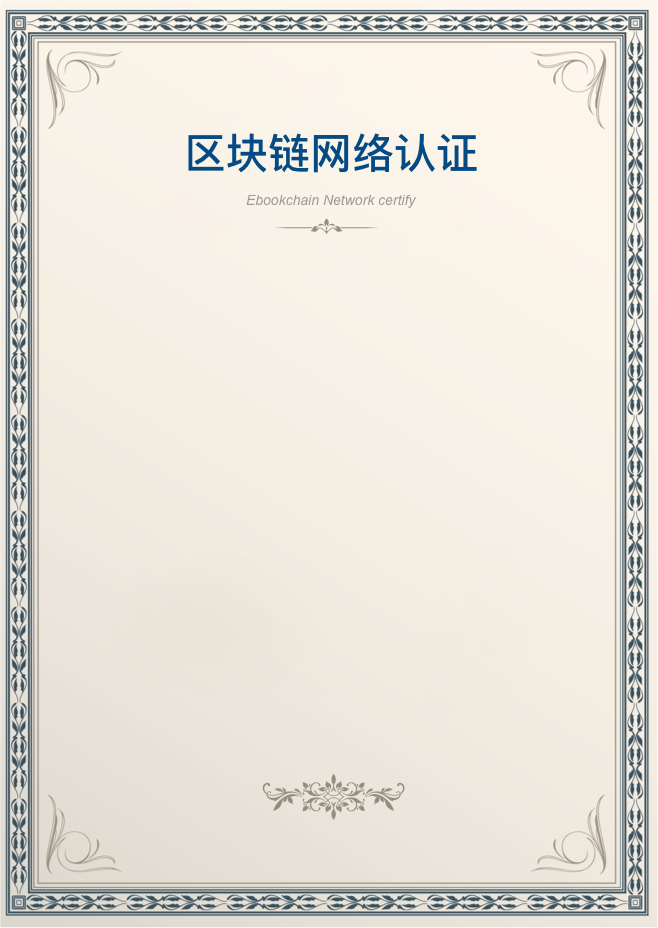
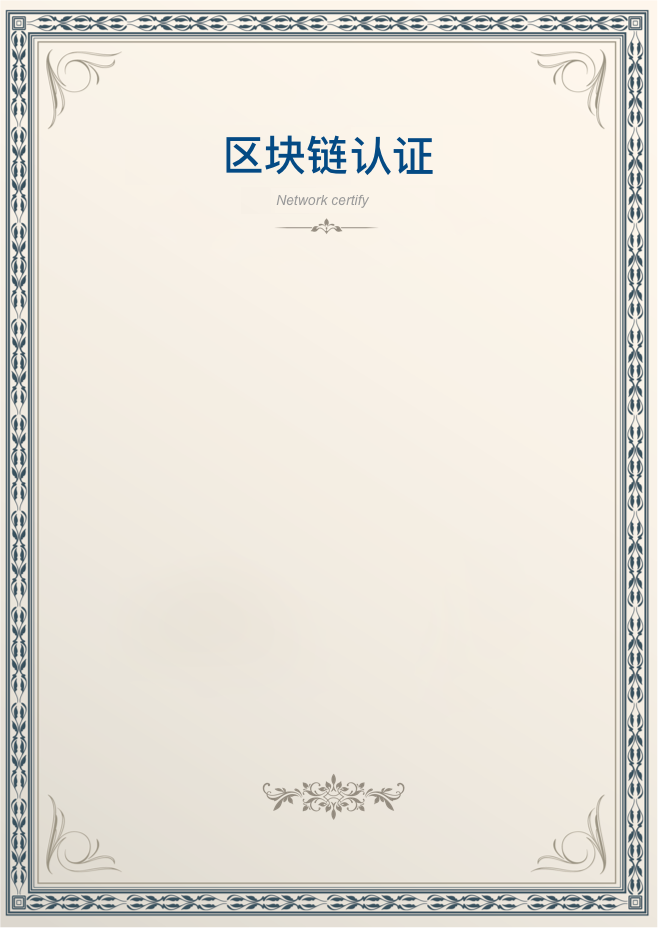
feat: 修改存证模块展示功能

Changed region(s): [[0.2736, 0.125, 0.7295, 0.2188]]

diff --git a/src/models/asset.js b/src/models/asset.js
@@ -13,7 +13,11 @@ const DefaultCert = {
     "tags": "test, article",
     "url": "dat://helloworld/index.html",
     "message": "TEST",
-    "extend": ""
+    "extend": "",
+    size: '141345',
+    "ipid": "IPID12404323413",
+    title: '委托检测报告存证',
+    author: 'LIMSChain',
 }
 const DefaultEvidence = {
     "evidenceList": [
@@ -27,7 +31,8 @@ const DefaultEvidence = {
             "tags": "test, article",
             "url": "dat://helloworld/index.html",
             "message": "TEST",
-            "extend": ""
+            "extend": "",
+            "ipid": "IPID12404323413",
         }, {
[1 lines of base64/hex data omitted]
             "address": 'TFRDKQYukVYiMqE5c3fFvqvqd27Yv4Thhj',
@@ -38,7 +43,8 @@ const DefaultEvidence = {
             "tags": "test, article",
             "url": "dat://helloworld/index.html",
             "message": "TEST",
-            "extend": ""
+            "extend": "",
+            "ipid": "IPID12404323413",
         }, {
[1 lines of base64/hex data omitted]
             "address": 'TFRDKQYukVYiMqE5c3fFvqvqd27Yv4Thhj',
@@ -49,7 +55,8 @@ const DefaultEvidence = {
             "tags": "test, article",
             "url": "dat://helloworld/index.html",
             "message": "TEST",
-            "extend": ""
+            "extend": "",
+            "ipid": "IPID12404323413",
         }, {
[1 lines of base64/hex data omitted]
             "address": 'TFRDKQYukVYiMqE5c3fFvqvqd27Yv4Thhj',
@@ -60,7 +67,8 @@ const DefaultEvidence = {
             "tags": "test, article",
             "url": "dat://helloworld/index.html",
             "message": "TEST",
-            "extend": ""
+            "extend": "",
+            "ipid": "IPID12404323413",
         }, {
[1 lines of base64/hex data omitted]
             "address": 'TFRDKQYukVYiMqE5c3fFvqvqd27Yv4Thhj',
@@ -71,7 +79,8 @@ const DefaultEvidence = {
             "tags": "test, article",
             "url": "dat://helloworld/index.html",
             "message": "TEST",
-            "extend": ""
+            "extend": "",
+            "ipid": "IPID12404323413",
         }
     ],
     "pagenation": {
@@ -118,23 +127,23 @@ export default {
             // callback(response)
         },
         *getCertificate({ payload, callback }, { call, put }) {
-            const response = yield call(queryEvidenceCert, payload.hash)
-            if (response.success === true && response.data) {
-                yield put({
-                    type: 'certificate',
-                    payload: {
-                        certificate: response.data
-                    },
-                });
-            } else {
+            // const response = yield call(queryEvidenceCert, payload.hash)
+            // if (response.success === true && response.data) {
+            //     yield put({
+            //         type: 'certificate',
+            //         payload: {
+            //             certificate: response.data
+            //         },
+            //     });
+            // } else {
                 yield put({
                     type: 'certificate',
                     payload: {
                         certificate: DefaultCert
                     },
                 });
-            }
-            callback(response)
+            // }
+            callback({success: true})
         }
     },
     reducers: {

diff --git a/src/pages/assets/$id.js b/src/pages/assets/$id.js
@@ -53,7 +53,7 @@ class Assets extends React.Component {
 	}
 
 	componentWillMount() {
-		document.title = 'Ebooker Ident';
+		document.title = 'LIMSChain存证';
 	}
 
 	componentDidMount() {
@@ -79,12 +79,13 @@ class Assets extends React.Component {
 				...params
 			},
 			callback: (res) => {
-				console.log('certificate',res)
+				// console.log('certificate',res)
 				if (res.success !== true) {
 					message.error(res.error)
 				} else {
 					var QRCode = require('qrcode');
-					var qrUrl = 'http://testnet.ebookchain.org/transactions/' + res.data.list[0].transactionId
+					var qrUrl = 'http://testnet.ddn.net/transactions/b879c99732343aa351efdcb68cd6821645edd0056933093ca09d1f8a3252b026'
+          console.log('qrURl: ', qrUrl);
 					QRCode.toDataURL(qrUrl, function (err, imgUrl) {
 						document.getElementById("imgQrCode").src = imgUrl;
 					});
@@ -112,14 +113,11 @@ class Assets extends React.Component {
 		copyDom.width(targetDom.width() + "px");
 		copyDom.height(targetDom.height() + "px");
 		$('body').append(copyDom);
-		console.log("$('body')", $('body'))
-		console.log('************', copyDom)
 
 		html2canvas(copyDom, {
 			useCORS: true,
 			logging: true,
 			onrendered: function (canvas) {
-				console.log('******************jinru onrender')
 				var url = canvas.toDataURL();
 
 				var curDate = new Date();
